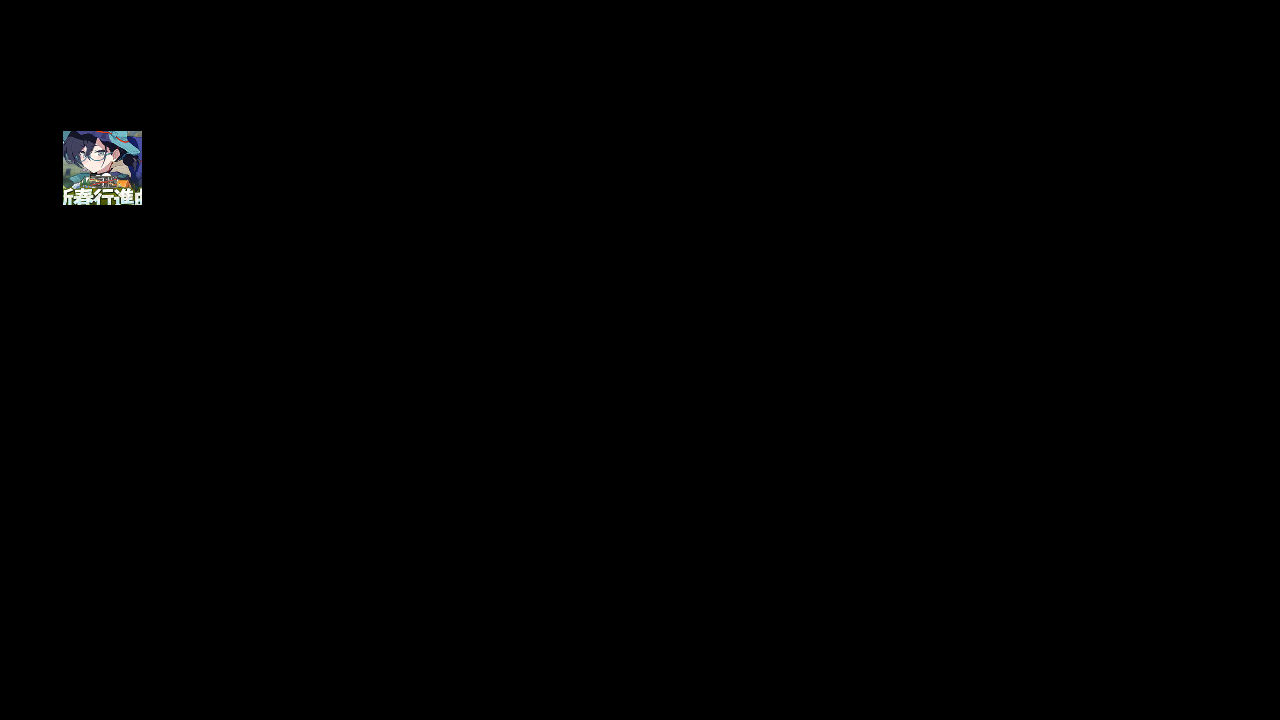
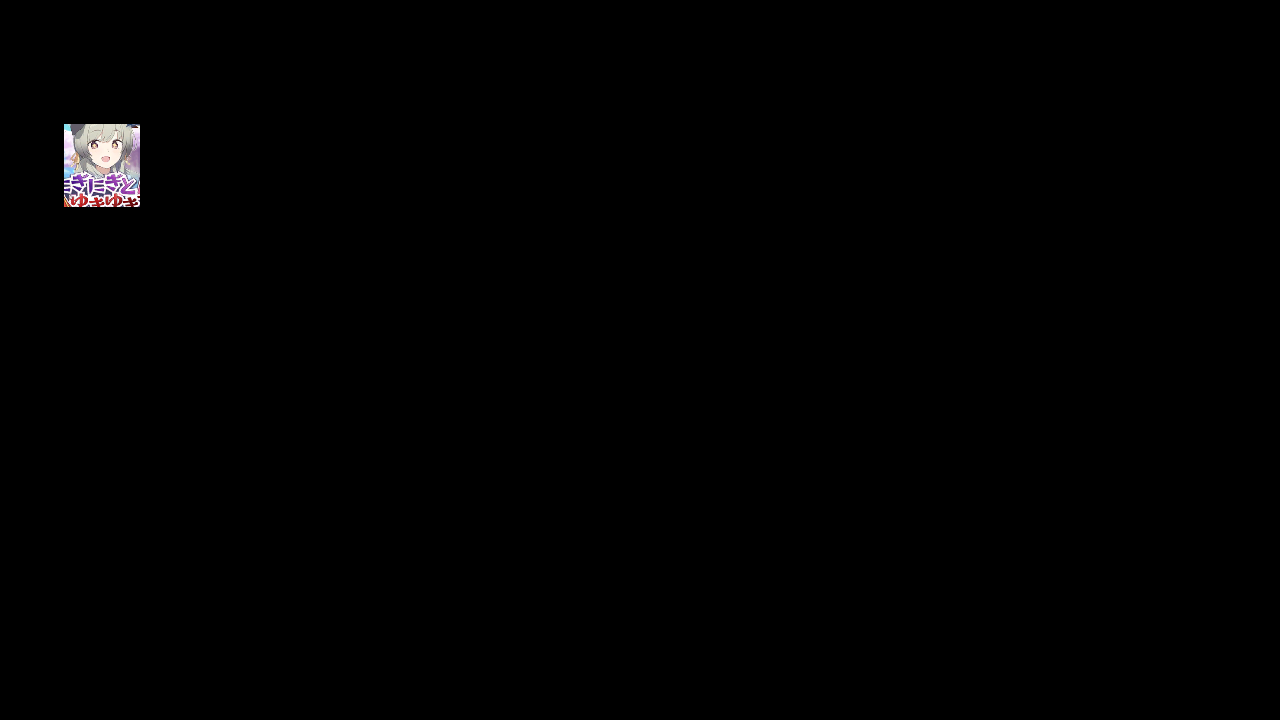
fix: update ui assets for jp

Changed region(s): [[0.0312, 0.1528, 0.125, 0.3056]]

diff --git a/tasks/base/assets/assets_base_page.py b/tasks/base/assets/assets_base_page.py
@@ -631,10 +631,10 @@ WORK_GO_TO_BOUNTY = ButtonWrapper(
     name='WORK_GO_TO_BOUNTY',
     jp=Button(
         file='./assets/jp/base/page/WORK_GO_TO_BOUNTY.png',
-        area=(669, 412, 765, 436),
-        search=(649, 392, 785, 456),
-        color=(165, 181, 208),
-        button=(669, 412, 765, 436),
+        area=(667, 383, 764, 409),
+        search=(647, 363, 784, 429),
+        color=(171, 187, 212),
+        button=(667, 383, 764, 409),
     ),
     en=Button(
         file='./assets/en/base/page/WORK_GO_TO_BOUNTY.png',
@@ -655,10 +655,10 @@ WORK_GO_TO_COMMISSIONS = ButtonWrapper(
     name='WORK_GO_TO_COMMISSIONS',
     jp=Button(
         file='./assets/jp/base/page/WORK_GO_TO_COMMISSIONS.png',
-        area=(655, 494, 751, 518),
-        search=(635, 474, 771, 538),
-        color=(165, 179, 204),
-        button=(655, 494, 751, 518),
+        area=(653, 475, 749, 501),
+        search=(633, 455, 769, 521),
+        color=(171, 185, 208),
+        button=(653, 475, 749, 501),
     ),
     en=Button(
         file='./assets/en/base/page/WORK_GO_TO_COMMISSIONS.png',
@@ -679,10 +679,10 @@ WORK_GO_TO_EVENT = ButtonWrapper(
     name='WORK_GO_TO_EVENT',
     jp=Button(
         file='./assets/jp/base/page/WORK_GO_TO_EVENT.png',
-        area=(63, 131, 142, 205),
-        search=(43, 111, 162, 225),
-        color=(122, 127, 129),
-        button=(63, 131, 142, 205),
+        area=(64, 124, 140, 207),
+        search=(44, 104, 160, 227),
+        color=(191, 172, 183),
+        button=(64, 124, 140, 207),
     ),
     en=Button(
         file='./assets/en/base/page/WORK_GO_TO_EVENT.png',
@@ -703,10 +703,10 @@ WORK_GO_TO_MISSION = ButtonWrapper(
     name='WORK_GO_TO_MISSION',
     jp=Button(
         file='./assets/jp/base/page/WORK_GO_TO_MISSION.png',
-        area=(720, 160, 803, 199),
-        search=(700, 140, 823, 219),
-        color=(165, 178, 204),
-        button=(720, 160, 803, 199),
+        area=(722, 155, 807, 199),
+        search=(702, 135, 827, 219),
+        color=(173, 188, 211),
+        button=(722, 155, 807, 199),
     ),
     en=Button(
         file='./assets/en/base/page/WORK_GO_TO_MISSION.png',
@@ -727,10 +727,10 @@ WORK_GO_TO_SCHOOL_EXCHANGE = ButtonWrapper(
     name='WORK_GO_TO_SCHOOL_EXCHANGE',
     jp=Button(
         file='./assets/jp/base/page/WORK_GO_TO_SCHOOL_EXCHANGE.png',
-        area=(641, 575, 758, 599),
-        search=(621, 555, 778, 619),
-        color=(165, 179, 204),
-        button=(641, 575, 758, 599),
+        area=(636, 566, 753, 592),
+        search=(616, 546, 773, 612),
+        color=(176, 187, 207),
+        button=(636, 566, 753, 592),
     ),
     en=Button(
         file='./assets/en/base/page/WORK_GO_TO_SCHOOL_EXCHANGE.png',
@@ -751,10 +751,10 @@ WORK_GO_TO_STORY = ButtonWrapper(
     name='WORK_GO_TO_STORY',
     jp=Button(
         file='./assets/jp/base/page/WORK_GO_TO_STORY.png',
-        area=(995, 163, 1032, 197),
-        search=(975, 143, 1052, 217),
-        color=(191, 201, 219),
-        button=(995, 163, 1032, 197),
+        area=(998, 155, 1078, 199),
+        search=(978, 135, 1098, 219),
+        color=(215, 221, 232),
+        button=(998, 155, 1078, 199),
     ),
     en=Button(
         file='./assets/en/base/page/WORK_GO_TO_STORY.png',
@@ -775,10 +775,10 @@ WORK_GO_TO_TACTICAL_CHALLENGE = ButtonWrapper(
     name='WORK_GO_TO_TACTICAL_CHALLENGE',
     jp=Button(
         file='./assets/jp/base/page/WORK_GO_TO_TACTICAL_CHALLENGE.png',
-        area=(1012, 535, 1151, 562),
-        search=(992, 515, 1171, 582),
-        color=(159, 174, 200),
-        button=(1012, 535, 1151, 562),
+        area=(801, 565, 920, 593),
+        search=(781, 545, 940, 613),
+        color=(172, 186, 209),
+        button=(801, 565, 920, 593),
     ),
     en=Button(
         file='./assets/en/base/page/WORK_GO_TO_TACTICAL_CHALLENGE.png',
